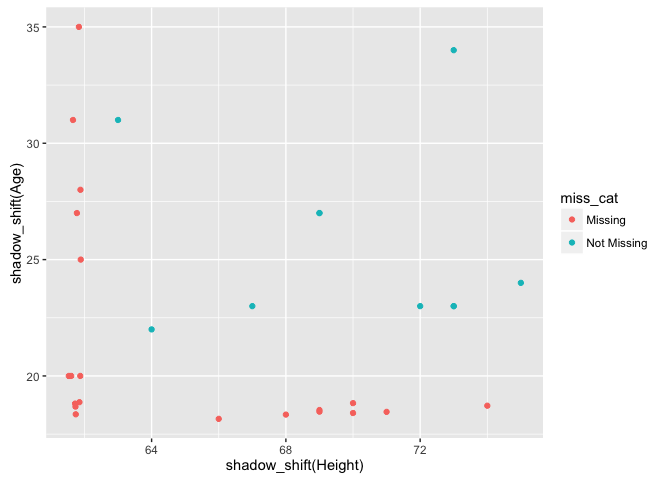
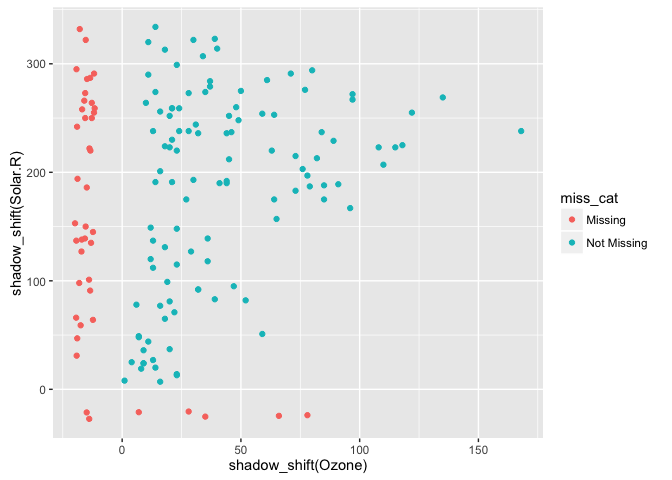
update README

diff --git a/README.md b/README.md
@@ -14,81 +14,58 @@ What does it do?
 
 Plotting missing data might sound a little strange - how do you visualise something that is not there? In the past, GGobi and Manet have provided methods of visualising missingness, with one approach being to replace "NA" values with values 10% lower than the minimum value in that variable.
 
-To illustrate, let's create some toy data using the wakefield package.
+To illustrate, let's explore the relationship between Ozone and Solar radiation from the airquality dataset.
 
 ``` r
-library(wakefield)
 library(ggmissing)
 # devtools::install_github("njtierney/ggmissing")
 library(ggplot2)
 library(dplyr)
 #> 
 #> Attaching package: 'dplyr'
-#> The following object is masked from 'package:wakefield':
-#> 
-#>     id
 #> The following objects are masked from 'package:stats':
 #> 
 #>     filter, lag
 #> The following objects are masked from 'package:base':
 #> 
 #>     intersect, setdiff, setequal, union
-
-df <- 
-  r_data_frame(
-  n = 30,
-  id,
-  race,
-  age,
-  sex,
-  hour,
-  iq,
-  height,
-  died,
-  Scoring = rnorm,
-  Smoker = valid
-  ) %>%
-  # add in some random missingness
-  r_na(prob=.4)
 ```
-
-Let's look at the relationship between Height and Age.
 
 ``` r
 
-ggplot(data = df,
-       aes(x = Height,
-           y = Age)) +
+ggplot(data = airquality,
+       aes(x = Ozone,
+           y = Solar.R)) +
   geom_point()
-#> Warning: Removed 20 rows containing missing values (geom_point).
+#> Warning: Removed 42 rows containing missing values (geom_point).
 ```
 
 ![](README-unnamed-chunk-3-1.png)
 
 We get a little message, warning us about the missing values.
 
-We can instead use the `geom_point_missing` to display the missing data
+We can instead use the `geom_missing_point` to display the missing data
 
 ``` r
 
 library(ggmissing)
 
-ggplot(data = df,
-       aes(x = Height,
-           y = Age)) +
+ggplot(data = airquality,
+       aes(x = Ozone,
+           y = Solar.R)) +
   geom_missing_point()
 ```
 
 ![](README-unnamed-chunk-4-1.png)
 
-`geom_missing_point()` has (albeit somewhat clumsily) shifted the missing values to now be 10% below the minimum value. However, the missing values need to be shown in a different colour so that missingness becomes preattentive. This code is currently being incorported into `geom_missing_point()`
+`geom_missing_point()` has (albeit somewhat clumsily) shifted the missing values to now be 10% below the minimum value. However, the missing values need to be shown in a different colour so that missingness becomes preattentive. One way to do this is to write the code as follows
 
 ``` r
-df %>%
-  mutate(miss_cat = miss_cat(., "Height", "Age")) %>%
+  airquality %>%
+  mutate(miss_cat = miss_cat(., "Ozone", "Solar.R")) %>%
   ggplot(data = .,
-       aes(x = shadow_shift(Height),
-           y = shadow_shift(Age),
+       aes(x = shadow_shift(Ozone),
+           y = shadow_shift(Solar.R),
            colour = miss_cat)) + 
   geom_point() 
 ```
@@ -97,14 +74,78 @@ df %>%
 
 However, this is a little verbose.
 
-Examples of the current work, in a stream-of-consciousness style can be seen in the vignette. The functions in this package are basically utility functions, `shadow_shift`, which shifts missing values to 10% below minimum, `shadow_df` creates a shadow matrix, `miss_cat` creates a new column of missingness status that allows for the plot to create a factor out of missingness. `miss_cat` uses the utility function `shadow_cat`.
+We've worked out how to override ggplot removing the missing data, but are still working on automatically setting the colour of missing and non-missing
+
+Examples of the current work, in a stream-of-consciousness style can be seen in the vignette.
+
+The functions in this package are basically utility functions, `shadow_shift`, which shifts missing values to 10% below minimum, `shadow_df` creates a shadow matrix, `miss_cat` creates a new column of missingness status that allows for the plot to create a factor out of missingness. `miss_cat` uses the utility function `shadow_cat`.
 
 Missing data tidying functions
 ==============================
 
 `ggmissing` uses some missingness transformation functions to set up tables for visualisation.
 
-The `summarise_missingness` function takes a `data.frame` and then returns a dataframe containing the percentages of missing data, and lists of dataframes containing tally and summary information for the variables and cases.
+``` r
+
+# overall percentage of missing data
+percent_missing_df(airquality)
+#> [1] 4.793028
+
+# % of variables that contain missing data
+percent_missing_var(airquality)
+#> [1] 33.33333
+
+# % of cases that contain missing data
+percent_missing_case(airquality)
+#> [1] 27.45098
+
+# tabulations of missing data across cases
+table_missing_case(airquality)
+#> # A tibble: 3 x 3
+#>   n_missing_in_case n_missing  percent
+#>               <int>     <int>    <dbl>
+#> 1                 0       111 72.54902
+#> 2                 1        40 26.14379
+#> 3                 2         2  1.30719
+
+# tabulations of missing data across variables
+table_missing_var(airquality)
+#> # A tibble: 3 x 3
+#>   n_missing_in_var n_var   percent
+#>              <int> <int>     <dbl>
+#> 1                0     4 2.6143791
+#> 2                7     1 0.6535948
+#> 3               37     1 0.6535948
+
+# summary information (counts, percentrages) of missing data for variables and cases
+summary_missing_var(airquality)
+#> # A tibble: 6 x 3
+#>   variables n_missing   percent
+#>       <chr>     <int>     <dbl>
+#> 1     Ozone        37 24.183007
+#> 2   Solar.R         7  4.575163
+#> 3      Wind         0  0.000000
+#> 4      Temp         0  0.000000
+#> 5     Month         0  0.000000
+#> 6       Day         0  0.000000
+summary_missing_case(airquality)
+#> # A tibble: 153 x 3
+#>     case n_missing  percent
+#>    <int>     <int>    <dbl>
+#> 1      1         0  0.00000
+#> 2      2         0  0.00000
+#> 3      3         0  0.00000
+#> 4      4         0  0.00000
+#> 5      5         2 33.33333
+#> 6      6         1 16.66667
+#> 7      7         0  0.00000
+#> 8      8         0  0.00000
+#> 9      9         0  0.00000
+#> 10    10         1 16.66667
+#> # ... with 143 more rows
+```
+
+Each of these functions can also be called all together using `summarise_missingness`, which takes a `data.frame` and then returns a nested dataframe containing the percentages of missing data, and lists of dataframes containing tally and summary information for the variables and cases.
 
 ``` r
 
@@ -181,72 +222,10 @@ s_miss$summary_missing_case
 #> # ... with 143 more rows
 ```
 
-Each of these functions can also be called invididually
-
-``` r
-
-# overall percentage of missing data
-percent_missing_df(airquality)
-#> [1] 4.793028
-
-# % of variables that contain missing data
-percent_missing_var(airquality)
-#> [1] 33.33333
-
-# % of cases that contain missing data
-percent_missing_case(airquality)
-#> [1] 27.45098
-
-# tabulations of missing data across cases
-table_missing_case(airquality)
-#> # A tibble: 3 x 3
-#>   n_missing_in_case n_missing  percent
-#>               <int>     <int>    <dbl>
-#> 1                 0       111 72.54902
-#> 2                 1        40 26.14379
-#> 3                 2         2  1.30719
-
-# tabulations of missing data across variables
-table_missing_var(airquality)
-#> # A tibble: 3 x 3
-#>   n_missing_in_var n_var   percent
-#>              <int> <int>     <dbl>
-#> 1                0     4 2.6143791
-#> 2                7     1 0.6535948
-#> 3               37     1 0.6535948
-
-# summary information (counts, percentrages) of missing data for variables and cases
-summary_missing_var(airquality)
-#> # A tibble: 6 x 3
-#>   variables n_missing   percent
-#>       <chr>     <int>     <dbl>
-#> 1     Ozone        37 24.183007
-#> 2   Solar.R         7  4.575163
-#> 3      Wind         0  0.000000
-#> 4      Temp         0  0.000000
-#> 5     Month         0  0.000000
-#> 6       Day         0  0.000000
-summary_missing_case(airquality)
-#> # A tibble: 153 x 3
-#>     case n_missing  percent
-#>    <int>     <int>    <dbl>
-#> 1      1         0  0.00000
-#> 2      2         0  0.00000
-#> 3      3         0  0.00000
-#> 4      4         0  0.00000
-#> 5      5         2 33.33333
-#> 6      6         1 16.66667
-#> 7      7         0  0.00000
-#> 8      8         0  0.00000
-#> 9      9         0  0.00000
-#> 10    10         1 16.66667
-#> # ... with 143 more rows
-```
-
 Other plotting functions
 ========================
 
-These tables could then be used in these plots
+These tables are then used in these plots
 
 gg\_missing\_var
 ----------------
